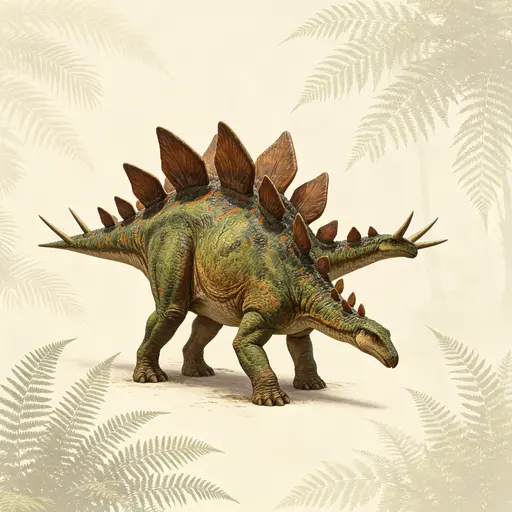
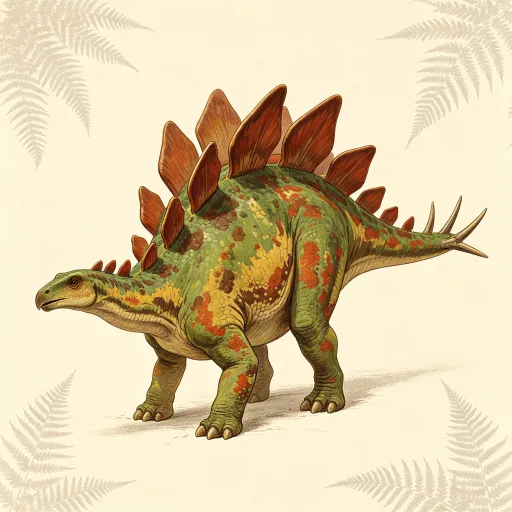
feat(侏罗纪公园): 新增自动演示模式并优化监控画面
新增 ?demo/?loop 自动播放演示模式用于宣传片录制，恐龙监控画面改为正方形画框并改用 contain 以完整显示恐龙，补充小红书图文笔记文案。

diff --git a/vibeknow/jurassic-park-3d/assets/app.js b/vibeknow/jurassic-park-3d/assets/app.js
@@ -83,6 +83,73 @@
   /* ================= 状态 ================= */
   var st={page:'routes',route:null,routeIdx:-1,tourIdx:0,sel:0,custom:[]};
 
+  /* ================= 自动播放演示模式（?demo / ?demo=giants / ?loop）=================
+   * 用途：小红书宣传片实机录制 + app 内「观演模式」。全程零手动操作——
+   * 路线页停留数秒后自动选路线 → 大门自动播放（自带 7.1s）→ 游览页每站定时自动前进
+   * → 巡逻日志停留后结束（带 ?loop 则回到路线页循环重播）。
+   * 地球摆头动效由 G.setPlaying 自带，无需手拖；键盘在演示模式被禁用，纯播放。
+   * 录制铁律：按手机逻辑尺寸（9:16）录，ffmpeg lanczos 放大，禁止 CSS zoom / transform:scale。 */
+  var QP=(location.search?new URLSearchParams(location.search):new URLSearchParams(''));
+  var DEMO=QP.has('demo');
+  var DEMO_LOOP=QP.has('loop');
+  var DEMO_ROUTE=(QP.get('demo')||'predator');
+  var DEMO_ROUTE_MS=3000;    // 路线选择页停留
+  var DEMO_TOUR_MS=3400;     // 每站停留（含档案卡阅读 + 地球摆头）
+  var DEMO_SUMMARY_MS=5200;  // 巡逻日志页停留
+  /* ?warm=N（秒）：演示开始前先静置 N 秒。软件渲染（SwiftShader）下给着色器/
+     地球组件预热时间，避免开头第一波动作掉帧；录制宣传片时用 ?demo&warm=3 */
+  var DEMO_WARM_MS=Math.max(0,(parseInt(QP.get('warm'),10)||0))*1000;
+  var demoTimers=[];
+  function demoAfter(ms,fn){var id=setTimeout(fn,ms);demoTimers.push(id);return id;}
+  function demoClear(){for(var i=0;i<demoTimers.length;i++)clearTimeout(demoTimers[i]);demoTimers=[];}
+  /* 演示模式下平滑滚动元素到指定位置（用于路线页/总结页一屏放不下时，
+     让录屏能带出完整内容而不是只卡顶部） */
+  function demoSmoothScroll(el, to, duration, cb){
+    if(!el)return cb&&cb();
+    var start=el.scrollTop, t0=null;
+    function step(t){
+      if(!t0)t0=t;
+      var p=Math.min(1,(t-t0)/Math.max(1,duration));
+      p=p<.5?2*p*p:1-Math.pow(-2*p+2,2)/2; // easeInOutQuad
+      el.scrollTop=start+(to-start)*p;
+      if(p<1)requestAnimationFrame(step);
+      else if(cb)cb();
+    }
+    requestAnimationFrame(step);
+  }
+  function startDemo(){
+    // 路线页一屏放不下，演示时先向下扫一眼再回顶，再进入大门
+    var routeSec=document.querySelector('.route-section');
+    if(routeSec){
+      demoAfter(500,function(){
+        var max=Math.max(0,routeSec.scrollHeight-routeSec.clientHeight);
+        if(max>0){
+          demoSmoothScroll(routeSec, max, 1200, function(){
+            demoAfter(200,function(){demoSmoothScroll(routeSec, 0, 700);});
+          });
+        }
+      });
+    }
+    demoAfter(DEMO_ROUTE_MS,function(){
+      if(st.page!=='routes')return;
+      var idx=0;
+      for(var i=0;i<ROUTES.length;i++){if(ROUTES[i].key===DEMO_ROUTE){idx=i;break;}}
+      enterGate(ROUTES[idx]);
+    });
+  }
+  function demoTourStep(){
+    demoAfter(DEMO_TOUR_MS,function(){
+      if(st.page!=='tour')return;
+      tourNext();                 // 前进一站；末站会自动跳到总结页
+      if(st.page==='tour')demoTourStep();
+      /* page==='summary' 时由 showSummary 里的 demoEnd 接管 */
+    });
+  }
+  function demoEnd(){
+    demoClear();
+    if(DEMO_LOOP){backToRoutes();demoAfter(1600,startDemo);}
+  }
+
   /* ================= 自选路线存档（localStorage，失败即静默降级）================= */
   function loadCustom(){
     try{
@@ -128,8 +195,11 @@
     im.src=f.img;
   });
   function thumbStyle(f){
+    /* contain 而非 cover：恐龙图是 1:1 方图，遇到非方形图位（矮屏被挤扁的监控画面）
+       也只留深色边，绝不裁掉头与脚；方形图位（游览页方画框 / 名录 38×38 缩略图）
+       与 cover 等效，不会出现留白 */
     if(f.img&&IMG_OK[f.name]===true)
-      return "background-image:url('"+f.img+"');background-size:cover;background-position:center";
+      return "background-image:url('"+f.img+"');background-size:contain;background-repeat:no-repeat;background-position:center";
     return 'background:'+plateGrad(f.color||'#a52a1f');
   }
   function repaintTourImg(i){
@@ -652,6 +722,7 @@
     document.body.setAttribute('data-route',r.key);
     if(G)G.setPlaying(true);
     showTourDino();
+    if(DEMO)demoTourStep();
     toast(G?'游览车已进园 · 拖动地球可转动':'游览车已进园 · 化石发现地见地球标注');
   }
   function showTourDino(){
@@ -805,6 +876,18 @@
     sumCountryEl.textContent=Object.keys(cns).length;
     summaryBodyEl.scrollTop=0;
     if(G)G.markDirty();
+    if(DEMO){
+      // 总结页内容也常超出一屏，演示时自动下滑到底再回顶，录屏能看到全部恐龙档案
+      demoAfter(600,function(){
+        var max=Math.max(0,summaryBodyEl.scrollHeight-summaryBodyEl.clientHeight);
+        if(max>0){
+          demoSmoothScroll(summaryBodyEl, max, 2000, function(){
+            demoAfter(1200,function(){demoSmoothScroll(summaryBodyEl, 0, 900);});
+          });
+        }
+      });
+      demoAfter(DEMO_SUMMARY_MS,demoEnd);
+    }
   }
   /* 回园区大门外（各页统一的「回路线选择」出口） */
   function backToRoutes(){
@@ -825,6 +908,7 @@
 
   /* ================= 键盘 ================= */
   window.addEventListener('keydown',function(e){
+    if(DEMO)return; /* 演示模式纯播放，不接受键盘 */
     if(e.key==='Escape'){
       if(st.page==='builder')exitBuilder();
       else if(st.page!=='routes')backToRoutes();
@@ -838,6 +922,7 @@
   var toastT=null;
   var TOAST_MS=3600;
   function toast(msg){
+    if(DEMO)return; /* 演示模式纯净播放，不弹提示 */
     hintEl.textContent=msg;hintEl.classList.add('show');
     clearTimeout(toastT);toastT=setTimeout(function(){hintEl.classList.remove('show');},TOAST_MS);
   }
@@ -851,6 +936,7 @@
   toast('选一条游览路线 · 游览车会带你穿行史前世界');
   setTimeout(function(){if(G)G.markDirty();document.getElementById('loader').classList.add('hide');},520);
   if(G)G.start();
+  if(DEMO)demoAfter(DEMO_WARM_MS,startDemo);
 
   /* logo 图到位才显示 logo 块（挂在 <html> 上，不会被页面切换的 body.className 覆盖）；
      没图就整块隐藏，不留任何 CSS 画的替代图形 */

diff --git a/vibeknow/jurassic-park-3d/index.html b/vibeknow/jurassic-park-3d/index.html
@@ -261,18 +261,22 @@
     overflow:hidden;text-overflow:ellipsis;white-space:nowrap}
 
   /* 版式对齐 world-food-3d 的菜品页：顶栏 → 地球条带(--globem) → 内容区 → 底部操作栏。
-     地球高度固定为 --globem（218）；「一屏不翻页」靠下面图片高度 + 卡片紧凑度来保证。 */
+     地球高度固定为 --globem（218）；「一屏不翻页」靠下面画面边长 + 卡片紧凑度来保证。 */
   .tour-body{flex:1;min-height:0;overflow:hidden;display:flex;flex-direction:column;
     margin-top:var(--globem);padding:10px 16px calc(72px + var(--sab))}
   .tour-wrap{width:100%;max-width:820px;margin:0 auto;flex:1;min-height:0;display:flex}
   .tour-stage{flex:1;min-height:0;display:flex;flex-direction:column;align-items:center;justify-content:center}
-  /* 恐龙图 = 园区监控画面：宽幅比例，高度可被 flex 压缩 —— 这样无论屏幕多矮，
-     卡片都完整留在屏内（不翻页），被让出的空间由画面高度承担 */
+  /* 恐龙图 = 园区监控画面：恐龙图是 1:1 方图（规格见 docs/恐龙图片素材需求.md），
+     所以画框也做成正方形 —— 方图正好填满方框，不会从上下裁掉头与脚。
+     边长（宽高同值）随视口高收缩，屏幕多矮都整块等比变小，不裁图、不压扁；
+     卡片因此始终完整留在屏内（不翻页），被让出的空间由画面边长承担。 */
   .tour-frame{position:relative;flex:0 1 auto;overflow:hidden;
-    width:100%;max-width:240px;height:24vh;min-height:88px;max-height:190px;
+    width:24vh;height:24vh;min-width:88px;min-height:88px;max-width:190px;max-height:190px;
     border-radius:2px;box-shadow:0 0 0 1px rgba(176,137,74,.6),0 12px 30px rgba(0,0,0,.6)}
+  /* contain + 深色底：万一画框被 flex 挤成非方形（极矮视口），
+     也只会在两侧留深色边（读作监视器内框），绝不裁图 */
   .tour-img{width:100%;height:100%;border-radius:2px;
-    background-color:var(--bone-3);background-size:cover;background-position:center;
+    background-color:var(--iron-8);background-size:contain;background-repeat:no-repeat;background-position:center;
     filter:saturate(.66) contrast(1.14) brightness(.94) hue-rotate(-8deg)}
   /* 扫描线 / 下扫光带 / 暗角 / 角标 —— 叠在图上，不额外占位 */
   .tour-scan{position:absolute;top:0;right:0;bottom:0;left:0;pointer-events:none;border-radius:2px;
@@ -473,11 +477,12 @@
   .route-card:focus,.bar-btn:focus,.bd-item:focus,.bd-mini:focus{outline:2px solid var(--brass);outline-offset:1px}
 
   /* 矮视口 */
-  /* 地球高度固定为 --globem（218），矮屏不改它；空间不足由监控画面的高度让位。
-     只有极矮视口（<560）才兜底收一点，避免整页被挤爆。 */
+  /* 地球高度固定为 --globem（218），矮屏不改它；空间不足由监控画面的边长让位。
+     只有极矮视口（<560）才兜底收一点，避免整页被挤爆。
+     画面宽高必须同改，否则画框又变长方、方图会被裁。 */
   @media (max-height:560px){
     :root{--globem:176px}
-    .tour-frame{height:20vh}
+    .tour-frame{width:20vh;height:20vh}
   }
   @media (max-height:520px){.park-hero{height:calc(104px + 92px + var(--sattop))}.park-ttl{font-size:20px}}
   @media (max-height:420px){.park-hero{height:calc(96px + 78px + var(--sattop))}.park-logo{display:none}}

diff --git a/vibeknow/jurassic-park-3d/xiaohongshu/图文笔记文案.md b/vibeknow/jurassic-park-3d/xiaohongshu/图文笔记文案.md
@@ -1,0 +1,139 @@
+# 侏罗纪公园・游览导航・小红书图文笔记文案
+
+> 项目：侏罗纪公园・游览导航（jurassic-park-3d）—— 致敬 1993 年电影《侏罗纪公园》的史前主题游览小工具
+> 赛道：#vibeknow 人文知识・挂载小红书「小工具」发布
+> 形式：图文笔记（封面 + 4 张介绍图）
+
+
+
+***
+
+## 标题
+
+我自己做了个手机里的侏罗纪公园🦖
+
+
+
+***
+
+## 正文
+
+我自己做了个手机里的侏罗纪公园，叫「侏罗纪公园・游览导航」🦖
+
+致敬 1993 年那部《侏罗纪公园》，点开就像坐进电影里那辆巡逻车，越逛越上头（真的，一开始就停不下来）
+
+🚗 里面都有啥？
+
+整整 **30 只恐龙，横跨 5 个地质年代、11 个国家**——
+
+霸王龙、迅猛龙、异特龙这些大明星必须有；
+
+梁龙、腕龙、棘龙排成一排，一个比一个高；
+
+连渡渡鸟、象鸟这种 "课本彩蛋" 都能见到；
+
+剑龙、镰刀龙、甲龙…… 长得越怪越好看。
+
+每一只都配一张档案卡：在哪出土、生活在什么年代、多长、多凶、爱吃啥，讲得明明白白。
+
+🗺 四条主题路线随便选
+
+
+
+* **掠食者之旅**：高危预警，8 只猎手等你路过，刺激值拉满
+
+* **巨兽之旅**：震撼向，梁龙腕龙棘龙，一个比一个高耸
+
+* **时空之旅**：从远古走到近代，15 只把亿万年一口气讲完
+
+* **奇异物种之旅**：专收怪家伙，越怪越上头
+
+  不想跟团？还能自己排「自选路线」，30 只恐龙随便挑随便排，下次进园路线都给你留着。
+
+🚪 最戳我的一点
+
+选定路线，经典大门在你面前缓缓开启，像电影开场一样！
+
+巡逻车出发后是**园区监控视角**——REC 亮着、摄像头编号和时间码在走，真的有种 "夜闯侏罗纪" 的感觉
+
+头顶还有颗地球，实时标着每只恐龙的化石发现地，当前这只高亮脉动；拖一拖就能转、双指一捏放大，一边逛园一边 "云考古"🧭
+
+📋 逛完还有仪式感
+
+给你出一份**巡逻日志**：这趟停靠几站、几只大家伙合计多长、最长最短分别是谁，
+
+再来一张六维雷达图 —— 体型 / 威胁 / 速度 / 智力 / 防御 / 稀有，这趟路线的 "性格" 一目了然。
+
+🎯 重点来了：
+
+不用下载、不用注册、不用装任何东西
+
+**直接打开就能入园**🦕
+
+恐龙迷、电影迷、家里有小朋友的，摸鱼的时候逛两圈，比刷手机治愈一百倍。
+
+💬 留个位置给你们：
+
+评论区聊聊 ——**你最想坐哪条路线？**
+
+是霸王龙那条高危线，还是时空那条通史线？
+
+还是自己排一条 "只挑帅的"？直接报路线名，我看看谁的安排最离谱🤣
+
+
+
+***
+
+## 配图说明（封面 + 4 张介绍图）
+
+
+
+| 序号  | 用途    | 画面要点                                       |
+| --- | ----- | ------------------------------------------ |
+| 图 1 | 封面    | 侏罗纪公园大门缓缓开启，雾气中霸王龙剪影；大字标题「我自己做了个手机里的侏罗纪公园」 |
+| 图 2 | 恐龙阵容  | 30 只恐龙横跨 5 个地质年代，霸王龙 / 梁龙 / 三角龙群像          |
+| 图 3 | 四条路线  | 掠食者 / 巨兽 / 时空 / 奇异 四条主题路线卡片                |
+| 图 4 | 巡逻车视角 | 复古监控画面（REC 红点、CAM 编号、时间码）+ 地球标注化石发现地       |
+| 图 5 | 巡逻日志  | 六维雷达图 + 本次停靠数据总结                           |
+
+
+
+***
+
+## 话题标签
+
+
+
+```
+\#小红书vibecoding大赛  #vibeknow  #vibecoding  #小红书小工具  #REDSkill  #buildwithqwen  #happyqwensday  #侏罗纪公园  #恐龙  #古生物  #恐龙迷  #知识科普  #宝藏小工具  #电影情怀  #摸鱼神器
+```
+
+
+
+***
+
+## 发布前必做
+
+
+
+1. 作品上传为小红书「小工具」，并**挂载在本条笔记中** —— 不挂载视同未参赛。
+
+2. 话题必须同时带上 `#小红书vibecoding大赛` 与 `#vibeknow`，缺一即不成立。
+
+3. 配图顺序：封面（大门开启）→ 恐龙阵容 → 四条路线 → 巡逻车视角 → 巡逻日志。
+
+
+
+***
+
+## 备注
+
+
+
+* 全文不出现技术细节（HTML / 3D / 代码 / 兼容性等均不写），只讲 "打开就能玩" 的体验。
+
+* 事实口径：30 只恐龙、5 个地质年代、11 个国家、4 条预设路线 + 自选路线、六维雷达图等均出自项目 README。
+
+* 互动钩子：结尾 "评论区报路线名" 承接最后一张图，与标题 / 封面形成呼应。
+
+* 赛道判定：`#vibeknow` 人文知识 —— 无任务、无输赢，定位是 "选一条路线、坐巡逻车穿行史前世界、看看恐龙化石在哪儿出土"。

diff --git a/vibeknow/jurassic-park-3d/README.md b/vibeknow/jurassic-park-3d/README.md
@@ -53,8 +53,12 @@
   当前这只高亮脉动，其余路线成员压暗作上下文
 - 恐龙图做成**园区监控画面**：`filter` 压成绿灰调 + 扫描线 + 缓慢下扫的光带 + 暗角，
   角上是 `REC` 红点、`CAM 0X` 与走动的时间码
+- 画面是**正方形**（恐龙图本身就是 1:1 方图），边长 `24vh`、**宽高同值**、限幅 `88–190px`：
+  方图正好填满方框，屏幕矮时整块等比变小，**绝不裁掉恐龙头与脚**；
+  `background-size` 一律用 `contain` 兜底 —— 万一画框被 flex 挤成非方形，
+  也只会在两侧留深色边（读作监视器内框），不会重新裁图
 - **地球高度固定 `--globem:218`，不为任何页面让步**；「一屏不翻页」由
-  **画面高度可压缩**（24vh，flex 让位）+ 卡片紧凑化（出处与活体数据并作一行）保证
+  **画面边长可压缩**（`24vh`，flex 让位）+ 卡片紧凑化（出处与活体数据并作一行）保证
 - 图片下是一张**恐龙档案卡**（最大宽 540px），卡内文字**一律左对齐**、信息分层：
   - 卡头：恐龙名（左）+ 围栏编号徽章 `PADDOCK-01`（右）
   - 次行：左「年代 · 发现国 · 产地」、右「体长 X 米 ｜ 威胁 X/5」（并作一行）

diff --git a/vibeknow/jurassic-park-3d/docs/恐龙图片素材需求.md b/vibeknow/jurassic-park-3d/docs/恐龙图片素材需求.md
@@ -24,7 +24,7 @@
 
 ### 构图要求（决定能否用）
 
-游览页的恐龙大图做成**园区监视屏**（`76vw` 方形，最大 320×320），主体必须居中、四周留出约 12% 的空白余量。
+游览页的恐龙大图做成**园区监视屏**（方形画框，边长 `24vh`、88–190px），主体必须居中、四周留出约 12% 的空白余量。
 不要出正俯视或正仰视（会变形），侧视或 3/4 视角最稳。
 
 ### 命名与主体描述
